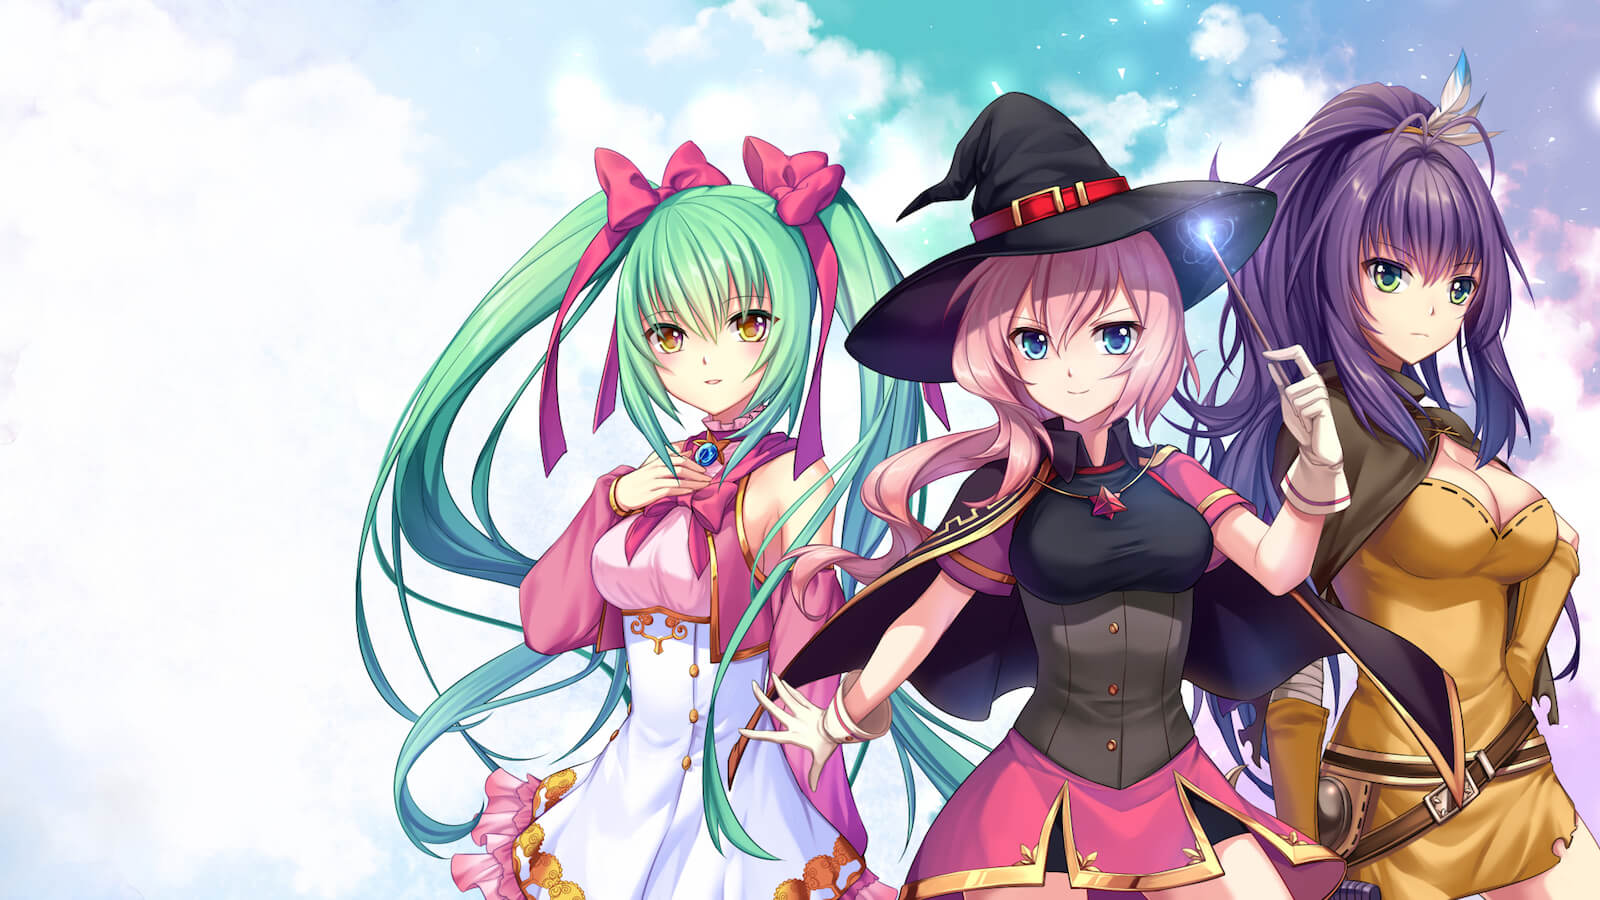
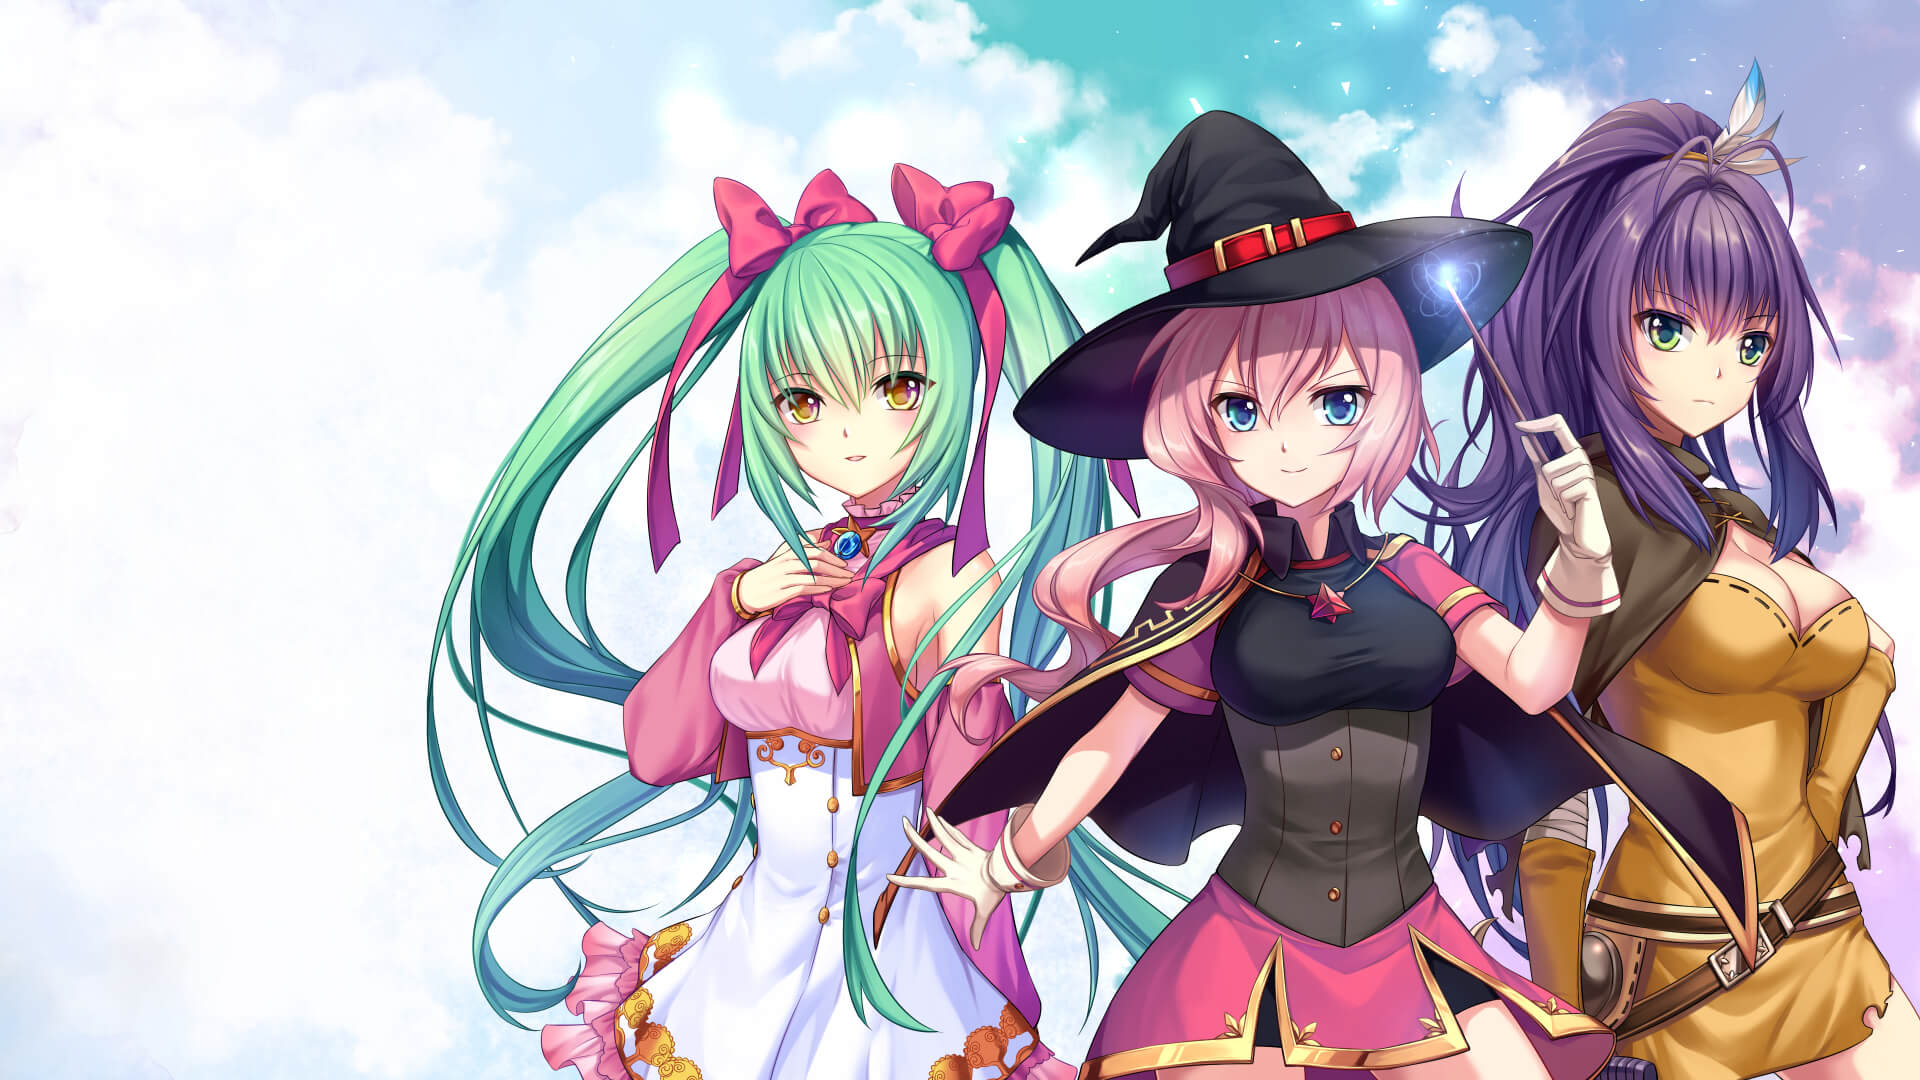
update bg image css

diff --git a/app/assets/stylesheets/ascendant_hearts.scss b/app/assets/stylesheets/ascendant_hearts.scss
@@ -119,12 +119,12 @@
 
 	@media (max-width: 460px) {
 		.main-image {
+			background: image-url('ascendant-hearts/main_mobile.jpg') center center no-repeat;
 			min-height: 400px;
 			-webkit-background-size: cover;
 			-moz-background-size: cover;
 			-o-background-size: cover;
 			background-size: cover;
-			background: image-url('ascendant-hearts/main_mobile.jpg') center center no-repeat;
 		}
 
 		.gallery-wrapper {
@@ -134,12 +134,12 @@
 	}
 	@media (min-width: 460px) {
 		.main-image {
+			background: image-url('ascendant-hearts/main.jpg') no-repeat center center;
 			min-height: 900px;
 			-webkit-background-size: cover;
-			-moz-background-size: cover;
-			-o-background-size: cover;
-			background-size: cover;
-			background: image-url('ascendant-hearts/main.jpg') right top no-repeat;
+			 -moz-background-size: cover;
+			 -o-background-size: cover;
+			 background-size: cover;
 		}
 		.gallery-wrapper {
 			padding-left: 105px;
